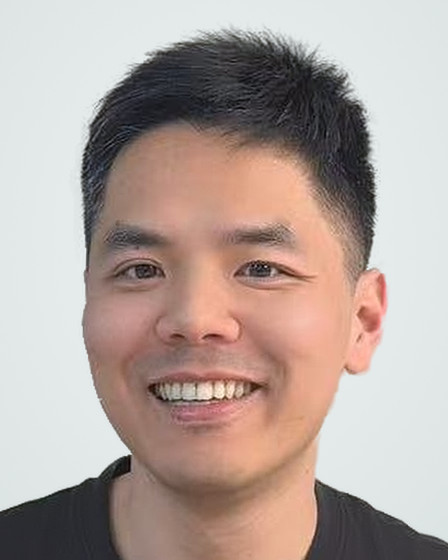
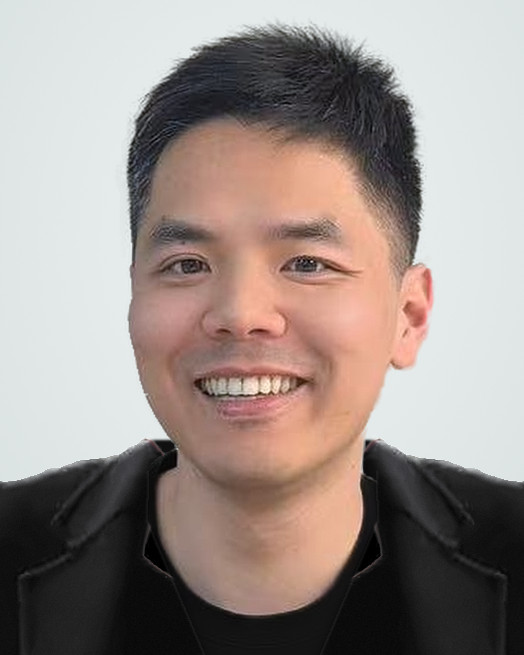
Dress the headshot in his black blazer
The jacket comes from the owner's restaurant photo, mirrored for level
shoulders; his own T-shirt neckline shows between the lapels. Face, hair
and neck are unchanged.

Claude-Session: https://claude.ai/code/session_01N2e5Gw34mupKycE3QWt53y

diff --git a/index.html b/index.html
@@ -1034,7 +1034,7 @@ h1,h2,h3,h4,.qq,.gt,.what,.lt,.pub-t,.case-k,.pub-note,.sub-h{text-wrap:balance}
     <div class="side">
       <p class="sec-no" aria-hidden="true">01</p>
       <h2 class="sec-h" id="h-about"><span class="en">About</span><span class="zh" lang="zh-Hans">简介</span></h2>
-      <img class="portrait" src="assets/portrait.jpg?v=3c44e759" alt="Portrait of Lu-Xing Yang" aria-label="Portrait of Lu-Xing Yang" data-zh="杨橹星的照片" width="448" height="560" loading="lazy" decoding="async">
+      <img class="portrait" src="assets/portrait.jpg?v=24df1b68" alt="Portrait of Lu-Xing Yang" aria-label="Portrait of Lu-Xing Yang" data-zh="杨橹星的照片" width="524" height="655" loading="lazy" decoding="async">
       <ul class="glance">
         <li><svg class="i" aria-hidden="true"><use href="#i-uni"/></svg><span><b><span class="en">Deakin University</span><span class="zh" lang="zh-Hans">迪肯大学</span></b><span class="en">Senior Lecturer since 2026; on faculty since 2019</span><span class="zh" lang="zh-Hans">2026 年起任高级讲师，2019 年起任教</span></span></li>
         <li><svg class="i" aria-hidden="true"><use href="#i-cap"/></svg><span><b><span class="en">PhD, Chongqing University</span><span class="zh" lang="zh-Hans">重庆大学博士</span></b><span class="en">Computer Science, 2015</span><span class="zh" lang="zh-Hans">计算机科学，2015 年</span></span></li>
